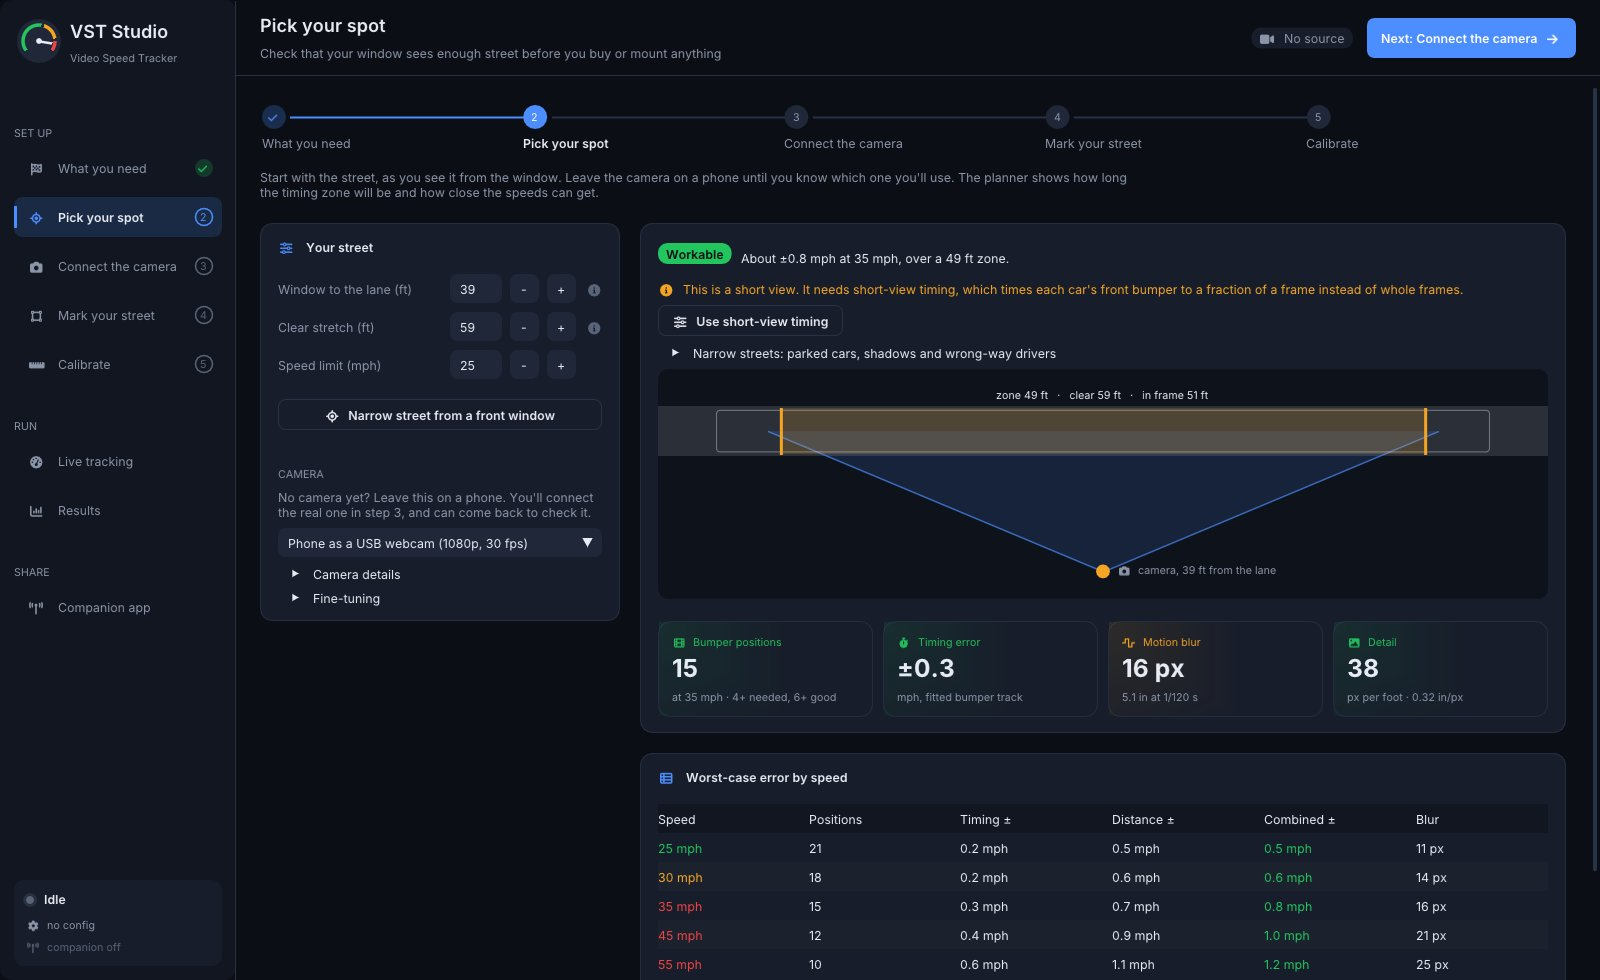
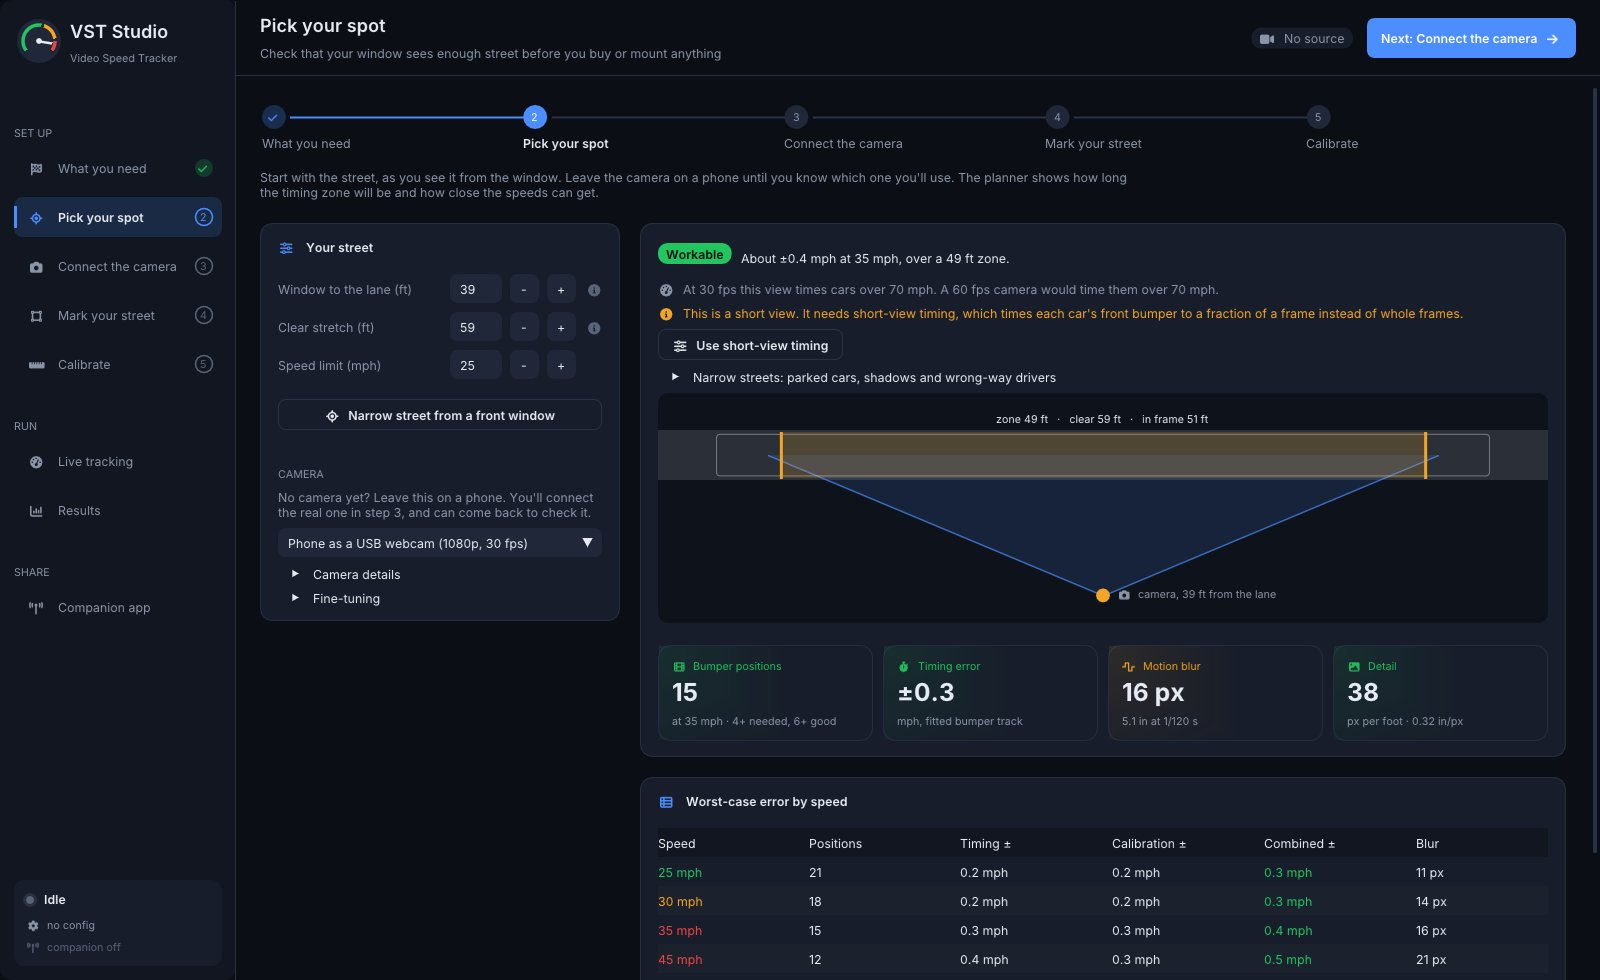
Short views down to about 14 ft: test at 15 ft, plan for it, state the spec (#29)
* Add VST Studio, a desktop app for setting up, running and reviewing VST

Guided first run (equipment, site planner, camera aim, one-way setup, calibration),
drag-to-edit zones on the video, drive-through and frame-count calibration, live
tracking with overlays, results with charts and snapshots, and a local API with QR
pairing for the companion web app. The tracker is embedded unchanged through a small
hook layer (VST_EMBEDDED); the CLI also gains camera/stream input and LegalDirection
for wrong-way callouts on one-way streets.

Claude-Session: https://claude.ai/code/session_01X1wfbDb4Q64DstUokXb9ns

* Document VST Studio and add its screenshots

Claude-Session: https://claude.ai/code/session_01X1wfbDb4Q64DstUokXb9ns

* Rename Fonts::small: Windows headers define small as a macro

Claude-Session: https://claude.ai/code/session_01X1wfbDb4Q64DstUokXb9ns

* Studio: fix Windows byte ambiguity in App.cpp

Include portable-file-dialogs before App.h so the Windows SDK headers are
parsed before Globals.h's using-directive, and build VSTStudio with
_HAS_STD_BYTE=0.

Claude-Session: https://claude.ai/code/session_01X1wfbDb4Q64DstUokXb9ns

* Studio: retry the font and single-header downloads at configure time

A dropped connection to raw.githubusercontent.com failed the Debian trixie
configure; retry up to four times and still verify the SHA256.

Claude-Session: https://claude.ai/code/session_01X1wfbDb4Q64DstUokXb9ns
[…]

diff --git a/companion/js/views/setup.js b/companion/js/views/setup.js
@@ -58,7 +58,7 @@ function spot({ vst, body, cfg, st, n }) {
     <h3>A good view has</h3>
     <div class="card">
       <div class="check">${icon('compass')}<p><b>The street crossing the picture side to side.</b> Aim straight across, not up or down the road; a window above street level is ideal.</p></div>
-      <div class="check">${icon('ruler')}<p><b>About 100 feet of road in view.</b> A car at the limit should take at least a second to cross the middle of the picture. A narrow street with only 20 ft or so in view works too, with short-view timing from VST Studio's site planner.</p></div>
+      <div class="check">${icon('ruler')}<p><b>About 100 feet of road in view.</b> A car at the limit should take at least a second to cross the middle of the picture. A narrow street with only 15 ft or so in view works too, with short-view timing from VST Studio's site planner.</p></div>
       <div class="check">${icon('camera')}<p><b>A steady 720p or 1080p picture at 30 fps.</b> Any webcam, a phone in webcam mode, or an IP camera (RTSP) works. Mount it so it can't shift.</p></div>
       <div class="check">${icon('sparkle')}<p><b>Little in the way.</b> A post or tree trunk is fine (you'll mark it), but avoid glare: put the lens against the glass and turn off room lights at night.</p></div>
     </div>

diff --git a/src/Gui/Guide.cpp b/src/Gui/Guide.cpp
@@ -6,14 +6,19 @@
 // aiming card shown on Connect the camera.
 // The planner's model is the one in the project's site calculator: view width at the lane from the field of
 // view, limited by the clear stretch, minus a car length and a lock-in run-up gives the timing zone; frames in
-// the zone give the one-frame timing error, the distance error over the zone gives the calibration error, and
-// speed x shutter time gives motion blur.
-// A short view (an old-city street seen across 20 ft or so) uses the engine's short-view timing (subFrameTiming = 1)
+// the zone give the one-frame timing error, and speed x shutter time gives motion blur.  The calibration error is the
+// timing error of the calibration drive itself (at the speed limit), carried into every speed: VST learns the zone
+// from that pass rather than from a measured length.
+// A short view (an old-city street seen across 14 to 25 ft or so) uses the engine's short-view timing (subFrameTiming = 1)
 // instead.  That times the front bumper with a line fitted through its positions, so a whole car never has to fit
 // in the zone: the zone is the view less about a foot at each end, the limit is how many bumper positions the fit
 // gets (one per frame pair, at least kMinSamples), and the timing error comes from the bumper's pixel jitter
-// spread over the zone rather than from a whole frame.  Both numbers are from the 20 ft simulation in
-// tests/short_view.cmake (p90 error 1 mph at 30 fps, fits rejected below 3 points).
+// spread over the zone rather than from a whole frame.  Both numbers are from the simulations in
+// tests/short_view.cmake (p90 error 1 mph at 30 fps on 15 and 20 ft crops, fits rejected below 3 points).
+// The fastest car a short view can time follows from kMinSamples: it needs 2 (kMinSamples - 1) frames in the zone.
+// Halving the frame rate of the 15 ft crop (the same as doubling every car's speed at 30 fps) bore that out: cars up
+// to about 45 mph at 30 fps were timed, half of those at 50-59 mph, few above 60, and the ones timed stayed within
+// 2 mph.  The model's 44 mph at 30 fps for 15 ft is the planner's number.
 #include "App.h"
 #include "Canvas.h"
 #include "Icons.h"
@@ -57,18 +62,25 @@ Eval evaluate(const AppPrefs& p, double mph, bool shortView) {
 	e.cover = 2 * p.planDist * std::tan(p.planHfov * IM_PI / 180 / 2);
 	e.visible = std::min(e.cover, p.planClear);
 	e.zone = shortView ? std::max(0.0, e.visible - 2 * kEdgeM) : std::max(0.0, e.visible - p.planCarLen - v * kLockTime);
-	e.frames = e.zone / v * p.planFps;
-	// The engine looks at frames in pairs: one bumper position per pair, plus the one beyond the far line.
-	e.samples = e.zone > 0 ? e.frames / 2 + 1 : 0;
-	if (!shortView) e.quant = e.frames > 0 ? mph / e.frames : INFINITY;
-	else if (e.samples < kMinSamples) e.quant = INFINITY;
-	else {
+	// Timing error of one crossing at s mph, as a fraction of its speed.
+	auto timing = [&](double s, double* framesOut, double* samplesOut) -> double {
+		double frames = e.zone / (s * kMph) * p.planFps;
+		// The engine looks at frames in pairs: one bumper position per pair, plus the one beyond the far line.
+		double samples = e.zone > 0 ? frames / 2 + 1 : 0;
+		if (framesOut) *framesOut = frames;
+		if (samplesOut) *samplesOut = samples;
+		if (!shortView) return frames > 0 ? 1 / frames : INFINITY;
+		if (samples < kMinSamples) return INFINITY;
 		// Slope error of a least-squares line through n evenly spaced points with position noise s over a run of
 		// length L: s * sqrt(12 / n) / L, as a fraction of the speed.
 		double jitterM = kJitterPx * e.cover / 1280;
-		e.quant = mph * jitterM * std::sqrt(12 / e.samples) / e.zone;
-	}
-	e.calib = e.zone > 0 ? mph * (p.planCalib / 100) / e.zone : INFINITY;
+		return jitterM * std::sqrt(12 / samples) / e.zone;
+	};
+	e.quant = mph * timing(mph, &e.frames, &e.samples);
+	// VST never measures the zone: it learns it from a pass at a known speed (step 5), so the calibration carries that
+	// pass's own timing error, here a drive past at the speed limit, into every speed.  (The old site calculator's
+	// tape-measured zone length doesn't apply.)
+	e.calib = e.zone > 0 ? mph * timing(p.speedLimit, nullptr, nullptr) : INFINITY;
 	e.total = std::hypot(e.quant, e.calib);
 	e.pxPerM = p.planWidth / std::max(e.cover, .01);
 	e.blurCm = v / p.planShutter * 100;
@@ -242,7 +254,7 @@ void App::shortViewNote(double coverM, bool on) {
 			"timed like any other.");
 		bullet(ICON_CAMERA, c::ok, "Through a window",
 			"Take out any insect screen, and put the lens against the glass with a rubber hood so the room doesn't reflect. "
-			"60 fps lets VST time cars up to about 100 mph in a 20 ft view; 30 fps tops out at about 50-60 mph.");
+			"At 30 fps a 15 ft view times cars up to about 45 mph and a 20 ft view up to about 60; at 60 fps both time cars over 70. Use 60 fps and a 1/1000 s shutter if you can.");
 		ImGui::PopTextWrapPos();
 		ImGui::TreePop();
 	}
@@ -275,7 +287,7 @@ void App::sitePlanner() {
 		if (std::fabs(shown - *metres * scale) > 1e-9) *metres = shown / scale;
 	};
 	numIn("Window to the lane (ft)", &prefs.planDist, kFt, 1, "%.0f", "Straight-line distance from where the camera will sit to the middle of the nearer moving lane. Pace it out or measure on a map.");
-	numIn("Clear stretch (ft)", &prefs.planClear, kFt, 1, "%.0f", "The longest stretch of the moving lane you can see with nothing in the way: no trees, poles or parked trucks. A narrow old-city street seen from a front window is often only 15-25 ft; that works with short-view timing.");
+	numIn("Clear stretch (ft)", &prefs.planClear, kFt, 1, "%.0f", "The longest stretch of the moving lane you can see with nothing in the way: no trees, poles or parked trucks. A narrow old-city street seen from a front window is often only 14-25 ft; that works with short-view timing, down to about 14 ft.");
 	formLabel("Speed limit (mph)", col);
 	ImGui::SetNextItemWidth(ImGui::GetContentRegionAvail().x - px(26));   // lines up with the inputs above
 	ImGui::InputInt("##lim", &prefs.speedLimit, 5);
@@ -314,8 +326,7 @@ void App::sitePlanner() {
 		ImGui::TreePop();
 	}
 	if (ImGui::TreeNode("Fine-tuning")) {
-		numIn("Zone length known to (in)", &prefs.planCalib, 1 / 2.54, 2, "%.0f", "How well you know the zone's length, if you measure it instead of calibrating with a drive past. Tape over 30 ft: 4-8 in. Guessed from a photo: 40 in or more. A drive-past calibration (step 5) avoids this.");
-		numIn("Car length (ft)", &prefs.planCarLen, kFt, .5, "%.1f", nullptr);
+		numIn("Car length (ft)", &prefs.planCarLen, kFt, .5, "%.1f", "A typical car is 15-16 ft. Whole-frame timing needs one fully in the zone; short-view timing doesn't.");
 		ImGui::TreePop();
 	}
 	prefs.planHfov = std::clamp(prefs.planHfov, 5.0, 170.0);
@@ -345,6 +356,22 @@ void App::sitePlanner() {
 	if (r.zone <= 0) ImGui::TextUnformatted("Less than a couple of feet of street is in view. Move back, or use a wider lens.");
 	else if (tooFew) ImGui::Text("At %d mph a car crosses the %.0f ft zone in %.0f frames, too few to time. Use a 60 fps camera, or see more of the street.", check, r.zone * 3.281, r.frames);
 	else ImGui::Text("About ±%.1f mph at %d mph, over a %.0f ft zone.", r.total, check, r.zone * 3.281);
+	if (shortView && r.zone > 0) {
+		// The fastest car this view can time, and what 60 fps would make of it: the spec a short view is bought on.
+		// Past kMaxTrackMph the tracker's margins, not the frame count, are the limit, so it just says "over 70".
+		auto fastest = [&](double fps) {
+			double v = r.zone * fps / (2 * (kMinSamples - 1)) / kMph;
+			char b[32];
+			if (v > kMaxTrackMph) snprintf(b, sizeof b, "over %.0f mph", kMaxTrackMph);
+			else snprintf(b, sizeof b, "up to about %.0f mph", std::floor(v / 5) * 5);
+			return std::string(b);
+		};
+		ImGui::PushTextWrapPos(0);
+		if (prefs.planFps < 59) dimText(ICON_GAUGE "  At %.0f fps this view times cars %s. A 60 fps camera would time them %s.",
+			prefs.planFps, fastest(prefs.planFps).c_str(), fastest(60).c_str());
+		else dimText(ICON_GAUGE "  At %.0f fps this view times cars %s.", prefs.planFps, fastest(prefs.planFps).c_str());
+		ImGui::PopTextWrapPos();
+	}
 	if (shortView) shortViewNote(r.cover, shortOn);
 	planDiagram(prefs, r, cfg.g, ImVec2(ImGui::GetContentRegionAvail().x, px(230)));
 	ImGui::Dummy(ImVec2(0, px(4)));
@@ -376,7 +403,7 @@ void App::sitePlanner() {
 	ImGui::Dummy(ImVec2(0, px(2)));
 	beginCard("plantable", ICON_TABLE, "Worst-case error by speed", ImVec2(outW, 0));
 	if (ImGui::BeginTable("errs", 6, ImGuiTableFlags_RowBg | ImGuiTableFlags_SizingStretchSame)) {
-		for (const char* h : { "Speed", shortView ? "Positions" : "Frames", "Timing ±", "Distance ±", "Combined ±", "Blur" }) ImGui::TableSetupColumn(h);
+		for (const char* h : { "Speed", shortView ? "Positions" : "Frames", "Timing ±", "Calibration ±", "Combined ±", "Blur" }) ImGui::TableSetupColumn(h);
 		ImGui::TableHeadersRow();
 		for (int mph : { prefs.speedLimit, prefs.speedLimit + 5, prefs.speedLimit + 10, prefs.speedLimit + 20, prefs.speedLimit + 30 }) {
 			Eval e = evaluate(prefs, mph, shortView);
@@ -434,7 +461,7 @@ void App::pageGuide() {
 		// One card per later step, in step order, each naming its step, so the list reads as the plan.
 		float cw = (avail - px(48)) / 4, ch = px(222);
 		gearCard("g2", ICON_LOCATE, c::accent2, "A window on the street", "Step 2 · Pick your spot",
-			"Somewhere that sees the street from the side. 20 ft of clear street is enough; more is better. You'll check it next.", ImVec2(cw, ch));
+			"Somewhere that sees the street from the side. 15 ft of clear street is enough; more is better. You'll check it next.", ImVec2(cw, ch));
 		ImGui::SameLine(0, px(16));
 		gearCard("g3", ICON_CAMERA, c::accent, "A camera, held still", "Step 3 · Connect the camera",
 			"A phone, webcam or IP camera at 720p or better and 25-30 fps (60 for a short view), on a window clamp or tripod.", ImVec2(cw, ch));

diff --git a/src/Wintel64/VideoSpeedTracker/Globals.h b/src/Wintel64/VideoSpeedTracker/Globals.h
@@ -106,7 +106,7 @@ public:
 	int L2RStreetY = 158;			// Hubcap line for L2R vehicles on flat street.Purple. Locust Ave. Relative to AnalysisBoxTop...pixels
 	int nextHeight = 85;			// Initial best guess for height of entering vehicles...pixels.
 	int minLoggedSpeed = 18;		// MPH.  Vehicles timed slower than this (walkers, cyclists, cars turning in) are counted in the run manifest's belowMinSpeed but not written to the csv.  0 = log every timed vehicle.  18 was hard-coded until v1.2.
-	int subFrameTiming = 0;			// 1 for a short view (about 20 ft of street, a car filling most of the frame): time the front bumper to a fraction of a frame and scale the tracker's pixel margins (see margin()).  0 = whole frames, as before v1.3.
+	int subFrameTiming = 0;			// 1 for a short view (about 14-25 ft of street, a car filling most of the frame): time the front bumper to a fraction of a frame and scale the tracker's pixel margins (see margin()).  0 = whole frames, as before v1.3.
 
 	// A pixel margin tuned for the 2016 Locust Avenue view, where maxL2RDistOnEntry and maxR2LDistOnEntry are 75.  With
 	// subFrameTiming it grows in proportion to that direction's maxDistOnEntry, so a short view, where a car moves hundreds of

diff --git a/src/Gui/App.cpp b/src/Gui/App.cpp
@@ -1188,7 +1188,7 @@ void App::zoneInspector() {
 		intRow("Vehicle height", &g.nextHeight, 10, 300, "First guess at a vehicle's height in pixels.");
 		intRow("Large vehicle", &g.largeVehicleArea, 1, 1000, "Area above which a vehicle counts as a truck or bus.");
 		bool shortView = g.subFrameTiming != 0;
-		if (ImGui::Checkbox("Short view (about 20 ft of street in the picture)", &shortView)) g.subFrameTiming = shortView;
+		if (ImGui::Checkbox("Short view (about 14-25 ft of street in the picture)", &shortView)) g.subFrameTiming = shortView;
 		if (ImGui::IsItemHovered()) ImGui::SetTooltip("Times each car's front bumper to a fraction of a frame, for views where a car fills most of the frame.\nThe site planner in step 2, Pick your spot, can set this and the steps below for you.");
 		intRow("Max → step", &g.maxL2RDistOnEntry, 5, 1280, "Fastest trackable motion, pixels per two frames. A short view needs several hundred.");
 		intRow("Max ← step", &g.maxR2LDistOnEntry, 5, 1280, "Fastest trackable motion, pixels per two frames. A short view needs several hundred.");

diff --git a/docs/Video Speed Tracker Overview and User Manual.md b/docs/Video Speed Tracker Overview and User Manual.md
@@ -638,7 +638,7 @@ a scaled screenshot works unchanged.
 | `L2RStreetY` | y coordinate (relative to `AnalysisBoxTop`, between 1 and `AnalysisBoxHeight`) in the analysis box for describing L2R vehicle hubcap line.  Currently a constant because I have a flat, non-sloping street.  Slopes, bumps and/or dips could be described by changing L2RStreetY to a function of x, where L2RStreetY() describes an arbitrary polynomial you provide. |
 | `nextHeight` | The value of this variable assumed before an actual vehicle height estimation can be conducted is a constant in the code.  You probably won't have to change it in your setup, but you might.  Once three or more differencing operation images are produced for a vehicle entering the scene, height will be calculated from data. |
 | `minLoggedSpeed` | Optional, in MPH; the default is 18, which was a constant in the code before v1.2.  Vehicles timed slower than this (walkers, cyclists, cars turning in) get no row in the stats csv.  They are counted as `belowMinSpeed` in the run manifest (`run_<name>.json`, see the README) instead.  0 logs every timed vehicle.  In VST Studio it is **Slowest logged** under Zones → Detection tuning. |
-| `subFrameTiming` | Optional, 0 (the default) or 1.  Set it to 1 for a short view, where only about 20 ft of street is visible and a car fills most of the frame.  Whole frames are too coarse there: at 30 fps a car at 25 MPH crosses a 16 ft zone in about 13 frames, and VST works in frame pairs, so one pair is 15% of the speed.  With 1 the speed comes instead from a straight line fitted through the front bumper positions seen between the speed lines (and the one either side), which times the crossing to a fraction of a frame; a vehicle whose positions stray from the line (two merged, a track picked up again) gets no speed.  The tracker's built-in pixel margins, tuned for the 2016 sample where `maxL2RDistOnEntry` is 75, are scaled by `maxL2RDistOnEntry` / 75 (and R2L likewise), so set those to how far a car moves in two frames at about 70 MPH (in a 20 ft view at 30 fps, about 440 pixels), and `entryLookBack` to about a car length in pixels.  A vehicle first seen already past the first speed line still counts if it is touching the edge it entered from, so the speed lines can sit close to the edges of the analysis box; the zone does not have to leave room for a whole car.  The csv's frame columns stay whole-frame counts.  Recorded in the run manifest's config. |
+| `subFrameTiming` | Optional, 0 (the default) or 1.  Set it to 1 for a short view, where only about 14 to 25 ft of street is visible and a car fills most of the frame.  Whole frames are too coarse there: at 30 fps a car at 25 MPH crosses a 16 ft zone in about 13 frames, and VST works in frame pairs, so one pair is 15% of the speed.  With 1 the speed comes instead from a straight line fitted through the front bumper positions seen between the speed lines (and the one either side), which times the crossing to a fraction of a frame; a vehicle whose positions stray from the line (two merged, a track picked up again) gets no speed.  The tracker's built-in pixel margins, tuned for the 2016 sample where `maxL2RDistOnEntry` is 75, are scaled by `maxL2RDistOnEntry` / 75 (and R2L likewise), so set those to how far a car moves in two frames at about 70 MPH (in a 20 ft view at 30 fps, about 440 pixels), and `entryLookBack` to about a car length in pixels.  A vehicle first seen already past the first speed line still counts if it is touching the edge it entered from, so the speed lines can sit close to the edges of the analysis box; the zone does not have to leave room for a whole car.  The csv's frame columns stay whole-frame counts.  Recorded in the run manifest's config. |
 
 [Fig1]: images/Fig01.jpg
 [Fig2]: images/Fig02.jpg

diff --git a/docs/vst-studio.md b/docs/vst-studio.md
@@ -41,21 +41,25 @@ A site planner, for before anything is bought or mounted. Start with the street 
 the distance to the moving lane and how long a stretch of it is clear, in feet, and the speed limit. The camera
 starts as a phone; pick another from the list once you know which one you'll use, and open **Camera details** for
 field of view, resolution, frame rate and shutter. It shows a to-scale top view and works out the usable timing
-zone, the frames a car spends in it, the timing and distance error, and motion blur, with a verdict and a table of
+zone, the frames a car spends in it, the timing and calibration error, and motion blur, with a verdict and a table of
 worst-case error by speed. The model:
 
 - lane in frame = 2 × distance × tan(field of view / 2), limited by the clear stretch
 - timing zone = visible lane − one car length − 0.2 s of run-up for the tracker to lock on
-- timing error ≈ speed ÷ frames in the zone (a one-frame slip), distance error ≈ speed × distance error ÷ zone
+- timing error ≈ speed ÷ frames in the zone (a one-frame slip); in a short view, the error of a line fitted
+  through the bumper positions
+- calibration error = the timing error of the calibration drive (at the speed limit), as a share of every speed
 - blur = speed × shutter time, in pixels at the lane
 
-**Short views.** A narrow street seen from a front window may show only 15 to 25 ft of the lane, too
+**Short views.** A narrow street seen from a front window may show only 14 to 25 ft of the lane, too
 little for a car to spend 15 whole frames in the zone. The planner then calls it a short view and offers **Use
 short-view timing**, which turns on `subFrameTiming` and sets the tracker's look-ahead, entry look-back and speed
 lines from the plan. With it, VST fits a line through each car's front-bumper positions and times the crossing to a
 fraction of a frame, so the zone no longer has to hold a whole car. **Narrow street from a front window** fills in a
 typical plan, and *Narrow streets: parked cars, shadows and wrong-way drivers* has tips for that kind of view. At
-30 fps a 20 ft view times cars up to about 50 to 60 mph; 60 fps raises that to about 100 mph.
+30 fps a 15 ft view times cars up to about 45 mph and a 20 ft view up to about 60; at 60 fps both time cars over
+70 mph, and the planner says which for your view. About 14 ft is the shortest view it plans for. For a short view
+use 60 fps, a fixed shutter of 1/1000 s (1/500 at most), and a lens that frames just the clear stretch.
 
 ![Site planner](images/studio/02-site-planner.jpg)
 

diff --git a/docs/getting-started.md b/docs/getting-started.md
@@ -78,7 +78,7 @@ In short:
 
 - The street should cross the frame left to right, about halfway up.
 - The speed zone, the stretch between the two white lines, should take a car at least one second to cross at
-  the speed limit. At 25 mph that is about 37 ft. A narrow street where you can only see about 20 ft works too,
+  the speed limit. At 25 mph that is about 37 ft. A narrow street where you can only see 14 to 25 ft works too,
   with short-view timing (see [the example below](#example-a-narrow-view-of-a-one-way-street)).
 - Use 720p or better at 25 to 30 fps. Any size and frame rate is accepted: frames are scaled to 1280x720, and
   every pixel value in `VST.cfg` uses that 1280x720 grid.
@@ -173,12 +173,13 @@ On a one-lane street both directions use the same lane, so the two hubcap lines 
 VST was built for two-lane, two-way streets, so expect to tune `maxL2RDistOnEntry`, `maxR2LDistOnEntry` and `SLOP`
 for a narrow view.
 
-If the view is shorter still, about 20 ft of street with a car filling most of the frame, a zone that takes a full
+If the view is shorter still, 14 to 25 ft of street with a car filling most or all of the frame, a zone that takes a full
 second isn't possible. Set `subFrameTiming = 1` (short-view timing): VST then times each car's front bumper to a
 fraction of a frame instead of counting whole frames. It also needs a much larger `maxL2RDistOnEntry`,
 `maxR2LDistOnEntry` and `entryLookBack` (several hundred pixels). The [manual's appendix](Video%20Speed%20Tracker%20Overview%20and%20User%20Manual.md#appendix)
 explains each one, and VST Studio's site planner sets all four for you when it sees a short view (**Use short-view
-timing**). Record at 60 fps if you can: at 30 fps a 20 ft view tops out at about 50 to 60 mph.
+timing**). Record at 60 fps with a 1/1000 s shutter if you can: at 30 fps a 15 ft view times cars up to about
+45 mph and a 20 ft view up to about 60; at 60 fps both time cars over 70. Below about 14 ft, cars start to be missed.
 
 ## When something goes wrong
 

diff --git a/docs/companion-api.md b/docs/companion-api.md
@@ -215,7 +215,7 @@ companion-facing settings:
 stats csv; slower ones are only counted in the run manifest. 0 logs every timed vehicle; negative values
 are refused.
 
-`subFrameTiming` (0 or 1) turns on short-view timing for a view of about 20 ft of street, where a car
+`subFrameTiming` (0 or 1) turns on short-view timing for a view of about 14 to 25 ft of street, where a car
 fills most of the frame. `maxL2RDistOnEntry` and `maxR2LDistOnEntry` are the tracker's look-ahead, the
 pixels a car moves in two frames at the fastest speed it tracks, and `entryLookBack` is how far back it
 looks for a car entering the box. A short view needs several hundred pixels for each; Studio's site
